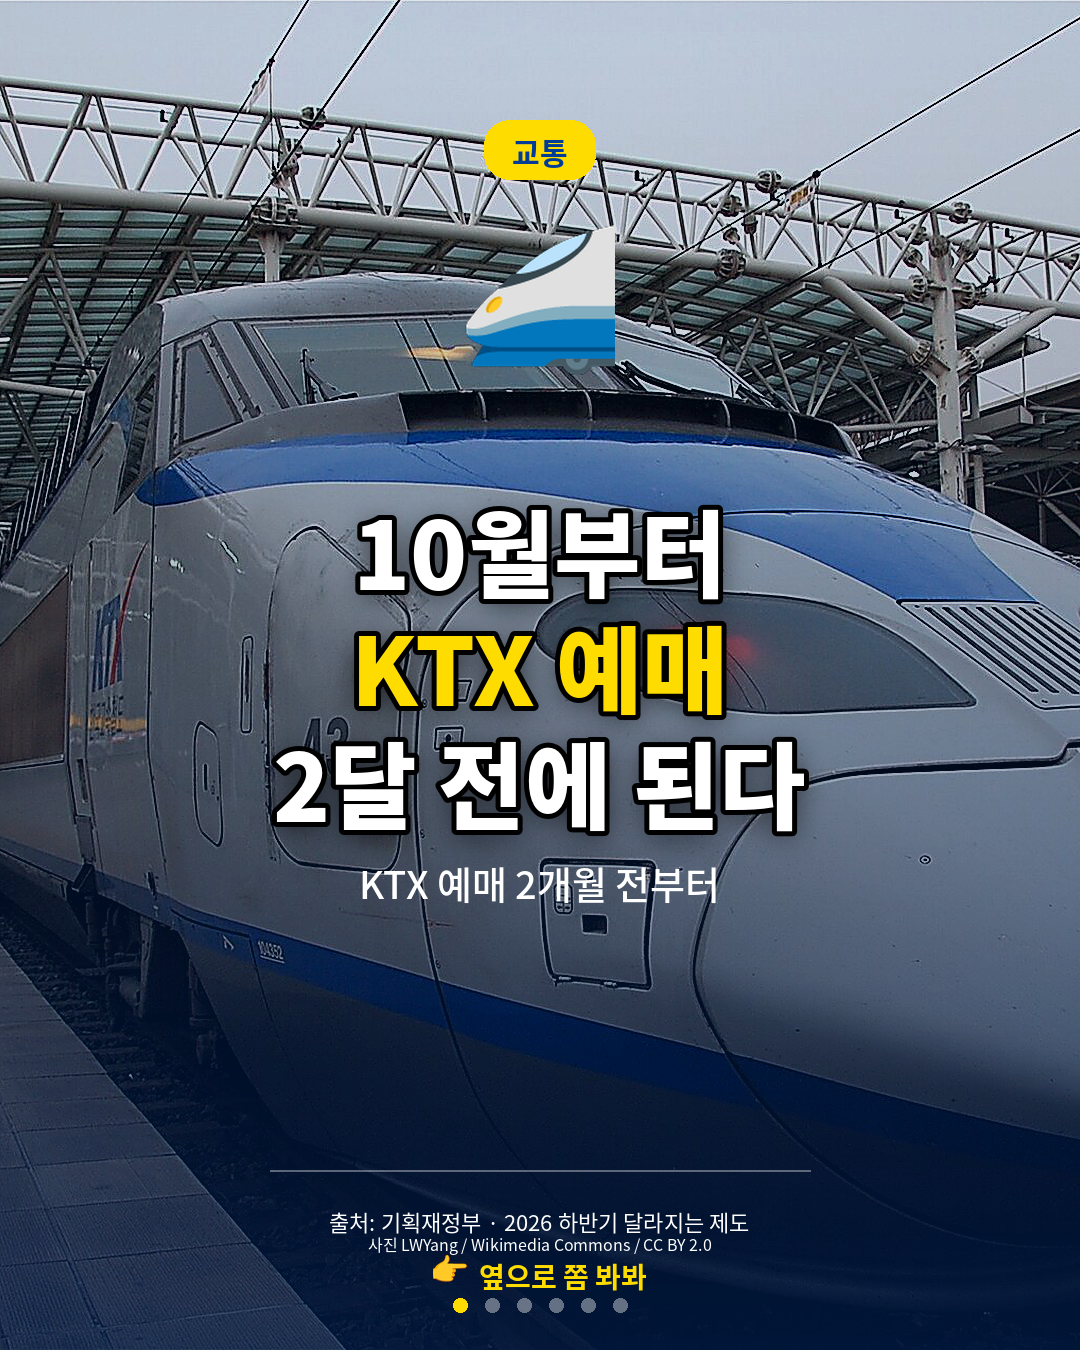
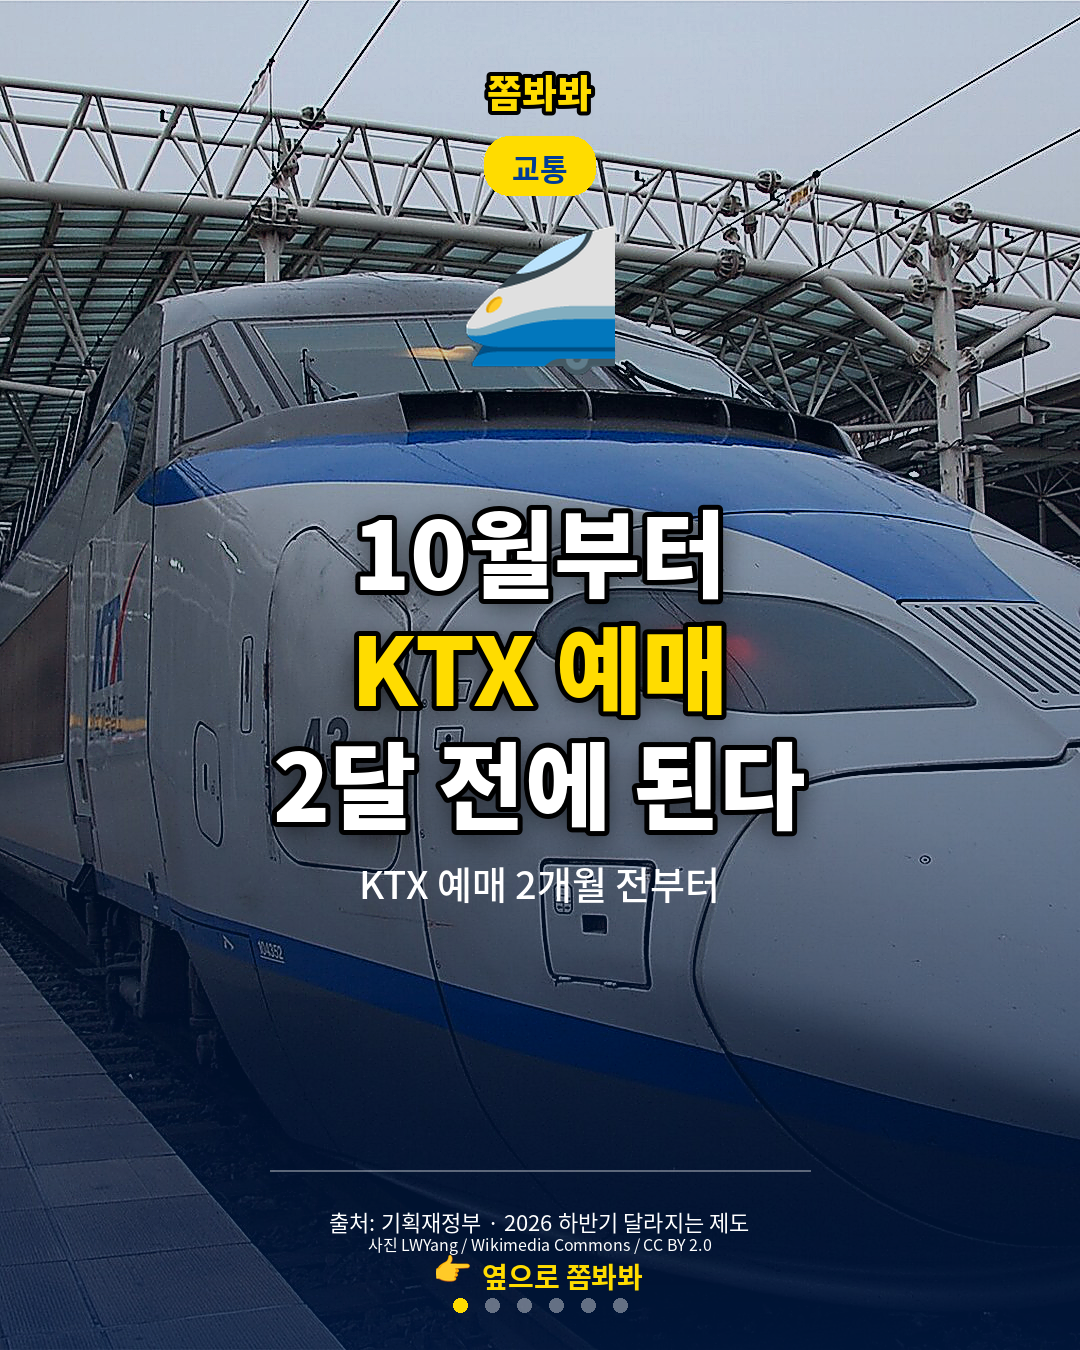
브랜드명을 붙여 쓰고 커버에 워드마크 추가
"쫌 봐봐"로 띄우면 평범한 말이 되고, "쫌봐봐"로 붙여야 매 장마다
계정 이름이 그대로 각인된다. 사용자가 쓴 표기를 따른다.

- 스와이프 "옆으로 쫌봐봐", 아웃트로 "매일 쫌봐봐"
- 커버 상단에 브랜드 워드마크. 캐러셀 첫 장은 피드에서 가장 많이
  노출되는 자리라 여기에 이름이 있어야 계정이 기억된다
- 브랜드명도 IG_BRAND 환경변수로 분리 (핸들과 함께 한 곳에서 관리)

Claude-Session: https://claude.ai/code/session_01W4yCPYAiRNGdqbEFr8kcA6

Changed region(s): [[0.4278, 0.0311, 0.55, 0.1556], [0.3972, 0.9333, 0.6111, 0.9644]]

diff --git a/cardnews.py b/cardnews.py
@@ -129,12 +129,15 @@ DARK  = (20, 20, 25)
 # 간판과 속이 따로 논다. 고정 문구도 같은 말투로 맞춘다.
 # 핸들은 계정이 바뀔 수 있으므로 환경변수로 뺀다.
 HANDLE = os.environ.get("IG_HANDLE", "@richup_bm_sw")
+BRAND  = os.environ.get("IG_BRAND", "쫌봐봐")
+# 브랜드명은 띄어쓰기 없이 그대로 박는다. "쫌 봐봐"로 띄우면 평범한 말이 되고,
+# "쫌봐봐"로 붙여야 매 장마다 계정 이름이 그대로 각인된다.
 UI = {
-    "swipe":    "옆으로 쫌 봐봐",
+    "swipe":    f"옆으로 {BRAND}",
     "outro1":   "도움 됐으면",
     "outro2":   "팔로우하고 저장해두이소",
     "outro_s1": "세상 돌아가는 이야기",
-    "outro_s2": "매일 쫌 봐봐",
+    "outro_s2": f"매일 {BRAND}",
 }
 
 def get_t(cat):
@@ -411,13 +414,25 @@ def make_cover(sc, t, photo=None, credit=None):
     cat = sc.get("meta", {}).get("category", "")
     lines = sc.get("cover", {}).get("lines", [sc.get("title", "")])
 
+    # 브랜드 워드마크 — 캐러셀 첫 장마다 계정 이름을 각인시킨다
+    if BRAND:
+        bf = font(FONT_BLACK, 38)
+        bb = d.textbbox((0,0), BRAND, font=bf)
+        bx = (W-(bb[2]-bb[0]))//2
+        if photo:
+            d.text((bx, 62), BRAND, font=bf, fill=t["accent"],
+                   stroke_width=4, stroke_fill=(0, 0, 0))
+        else:
+            d.text((bx+2, 65), BRAND, font=bf, fill=(0, 0, 0, 80))
+            d.text((bx, 62), BRAND, font=bf, fill=t["accent"])
+
     # 상단 카테고리 뱃지
     if cat:
         tf = font(FONT_BOLD, 30)
         bb = d.textbbox((0,0), cat, font=tf)
         tw, th = bb[2]-bb[0]+56, bb[3]-bb[1]+30
         bx = (W-tw)//2
-        by = 120
+        by = 136
         rounded_rect(d, (bx, by, bx+tw, by+th), 25, t["tag_bg"])
         d.text((bx+28, by+9), cat, font=tf, fill=t["tag_fg"])
 
